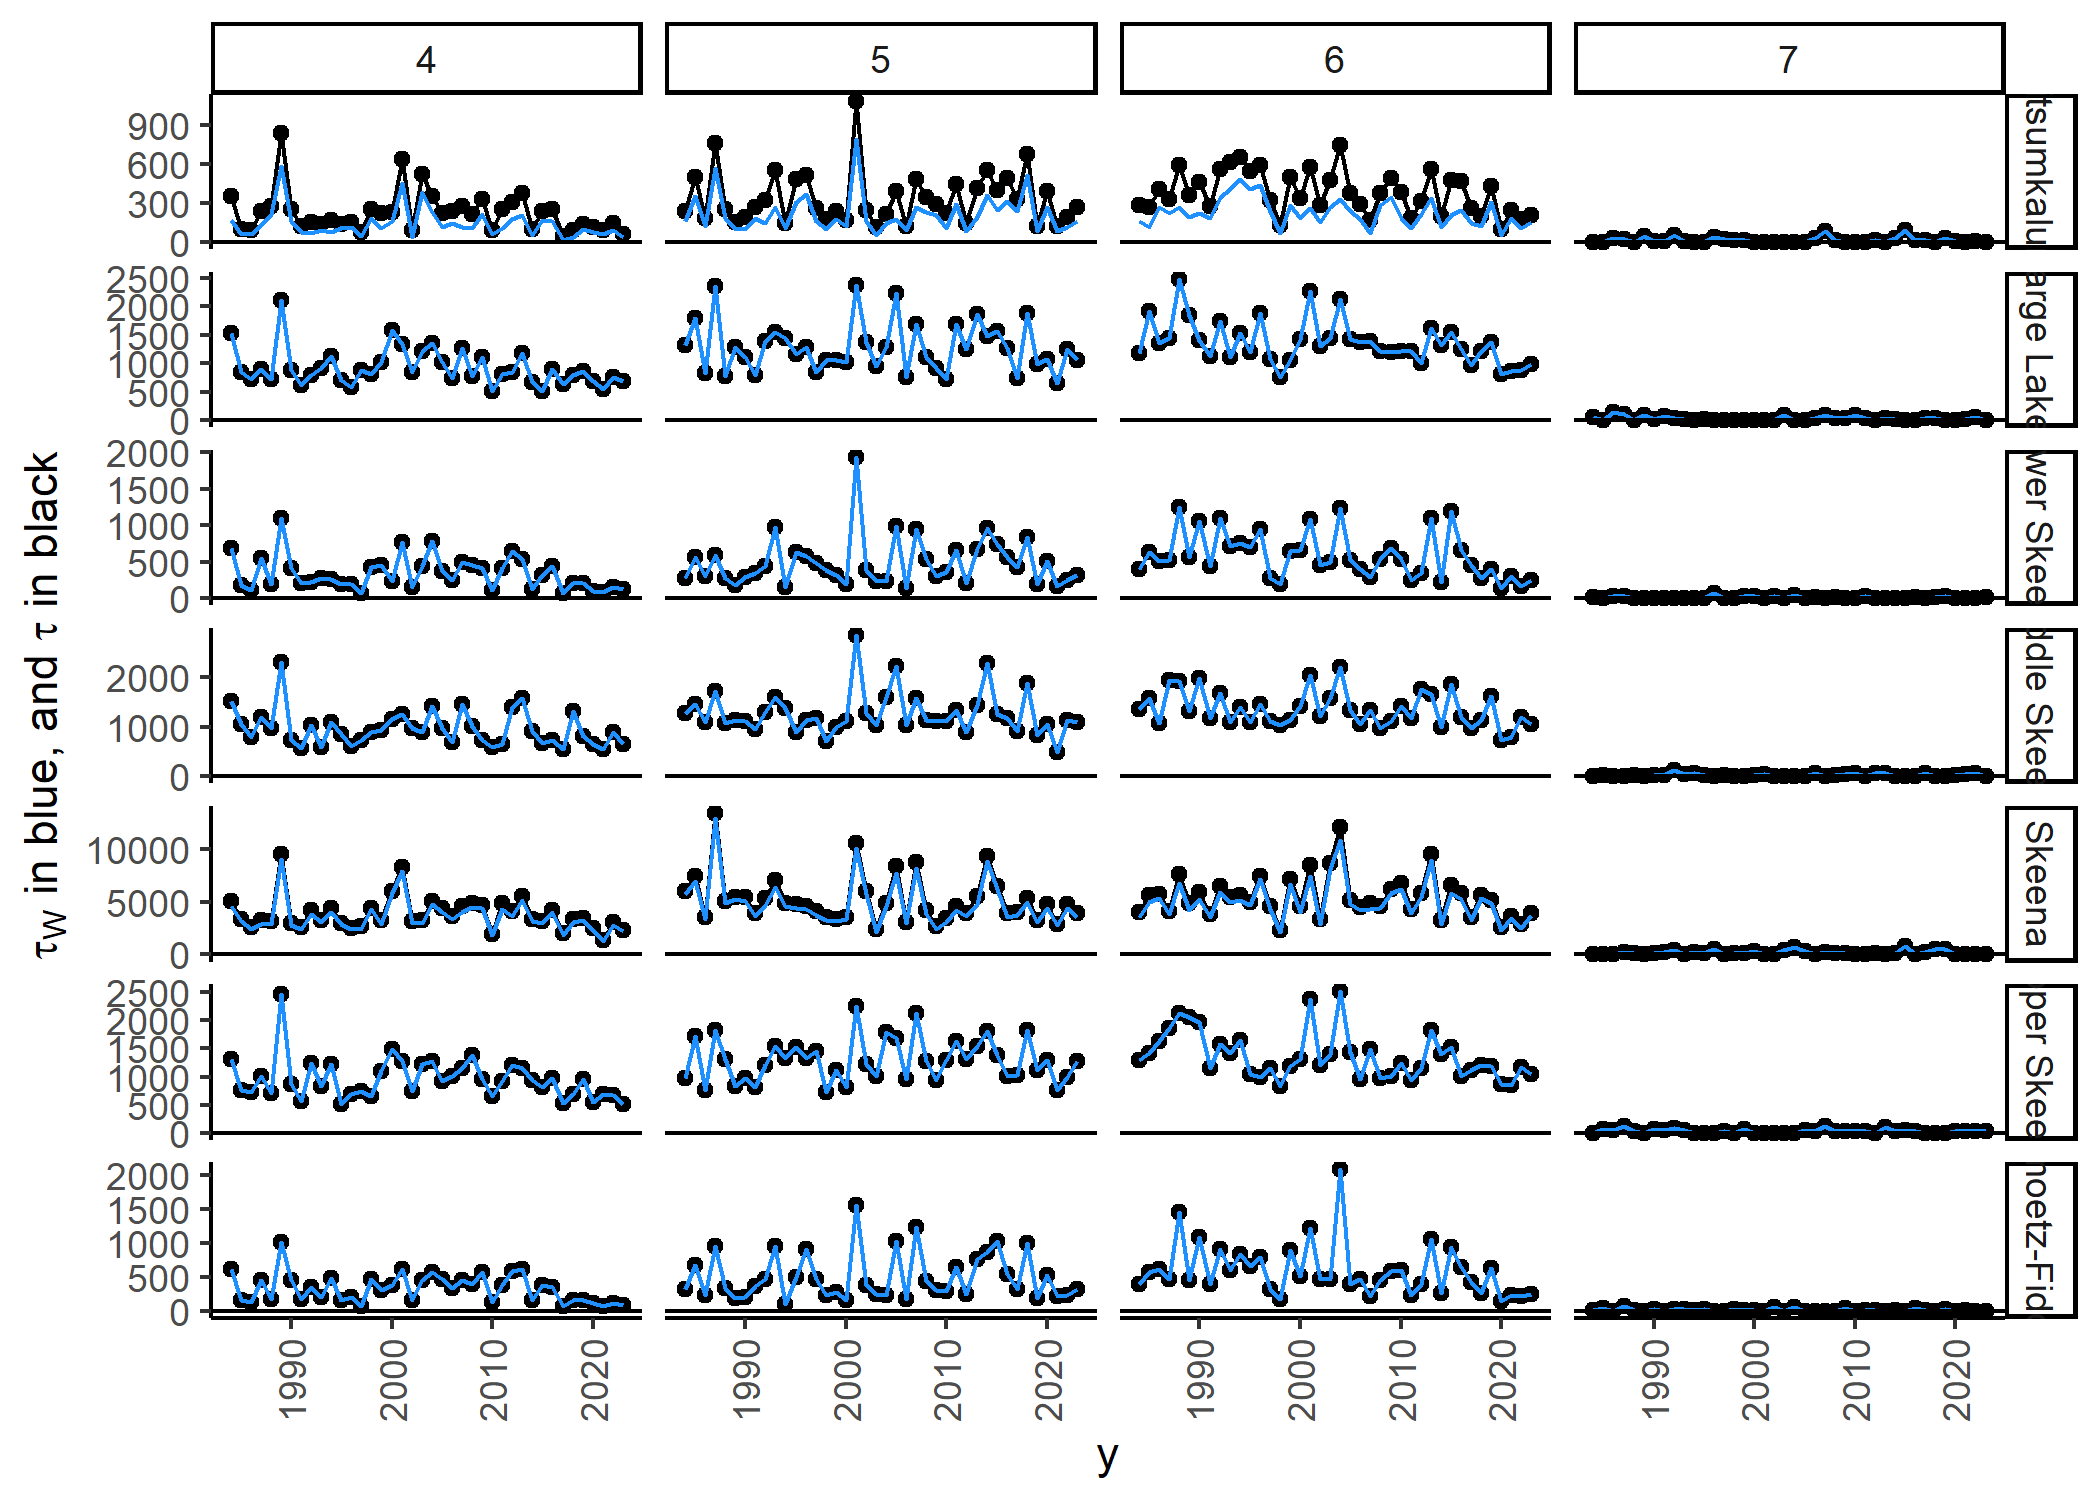
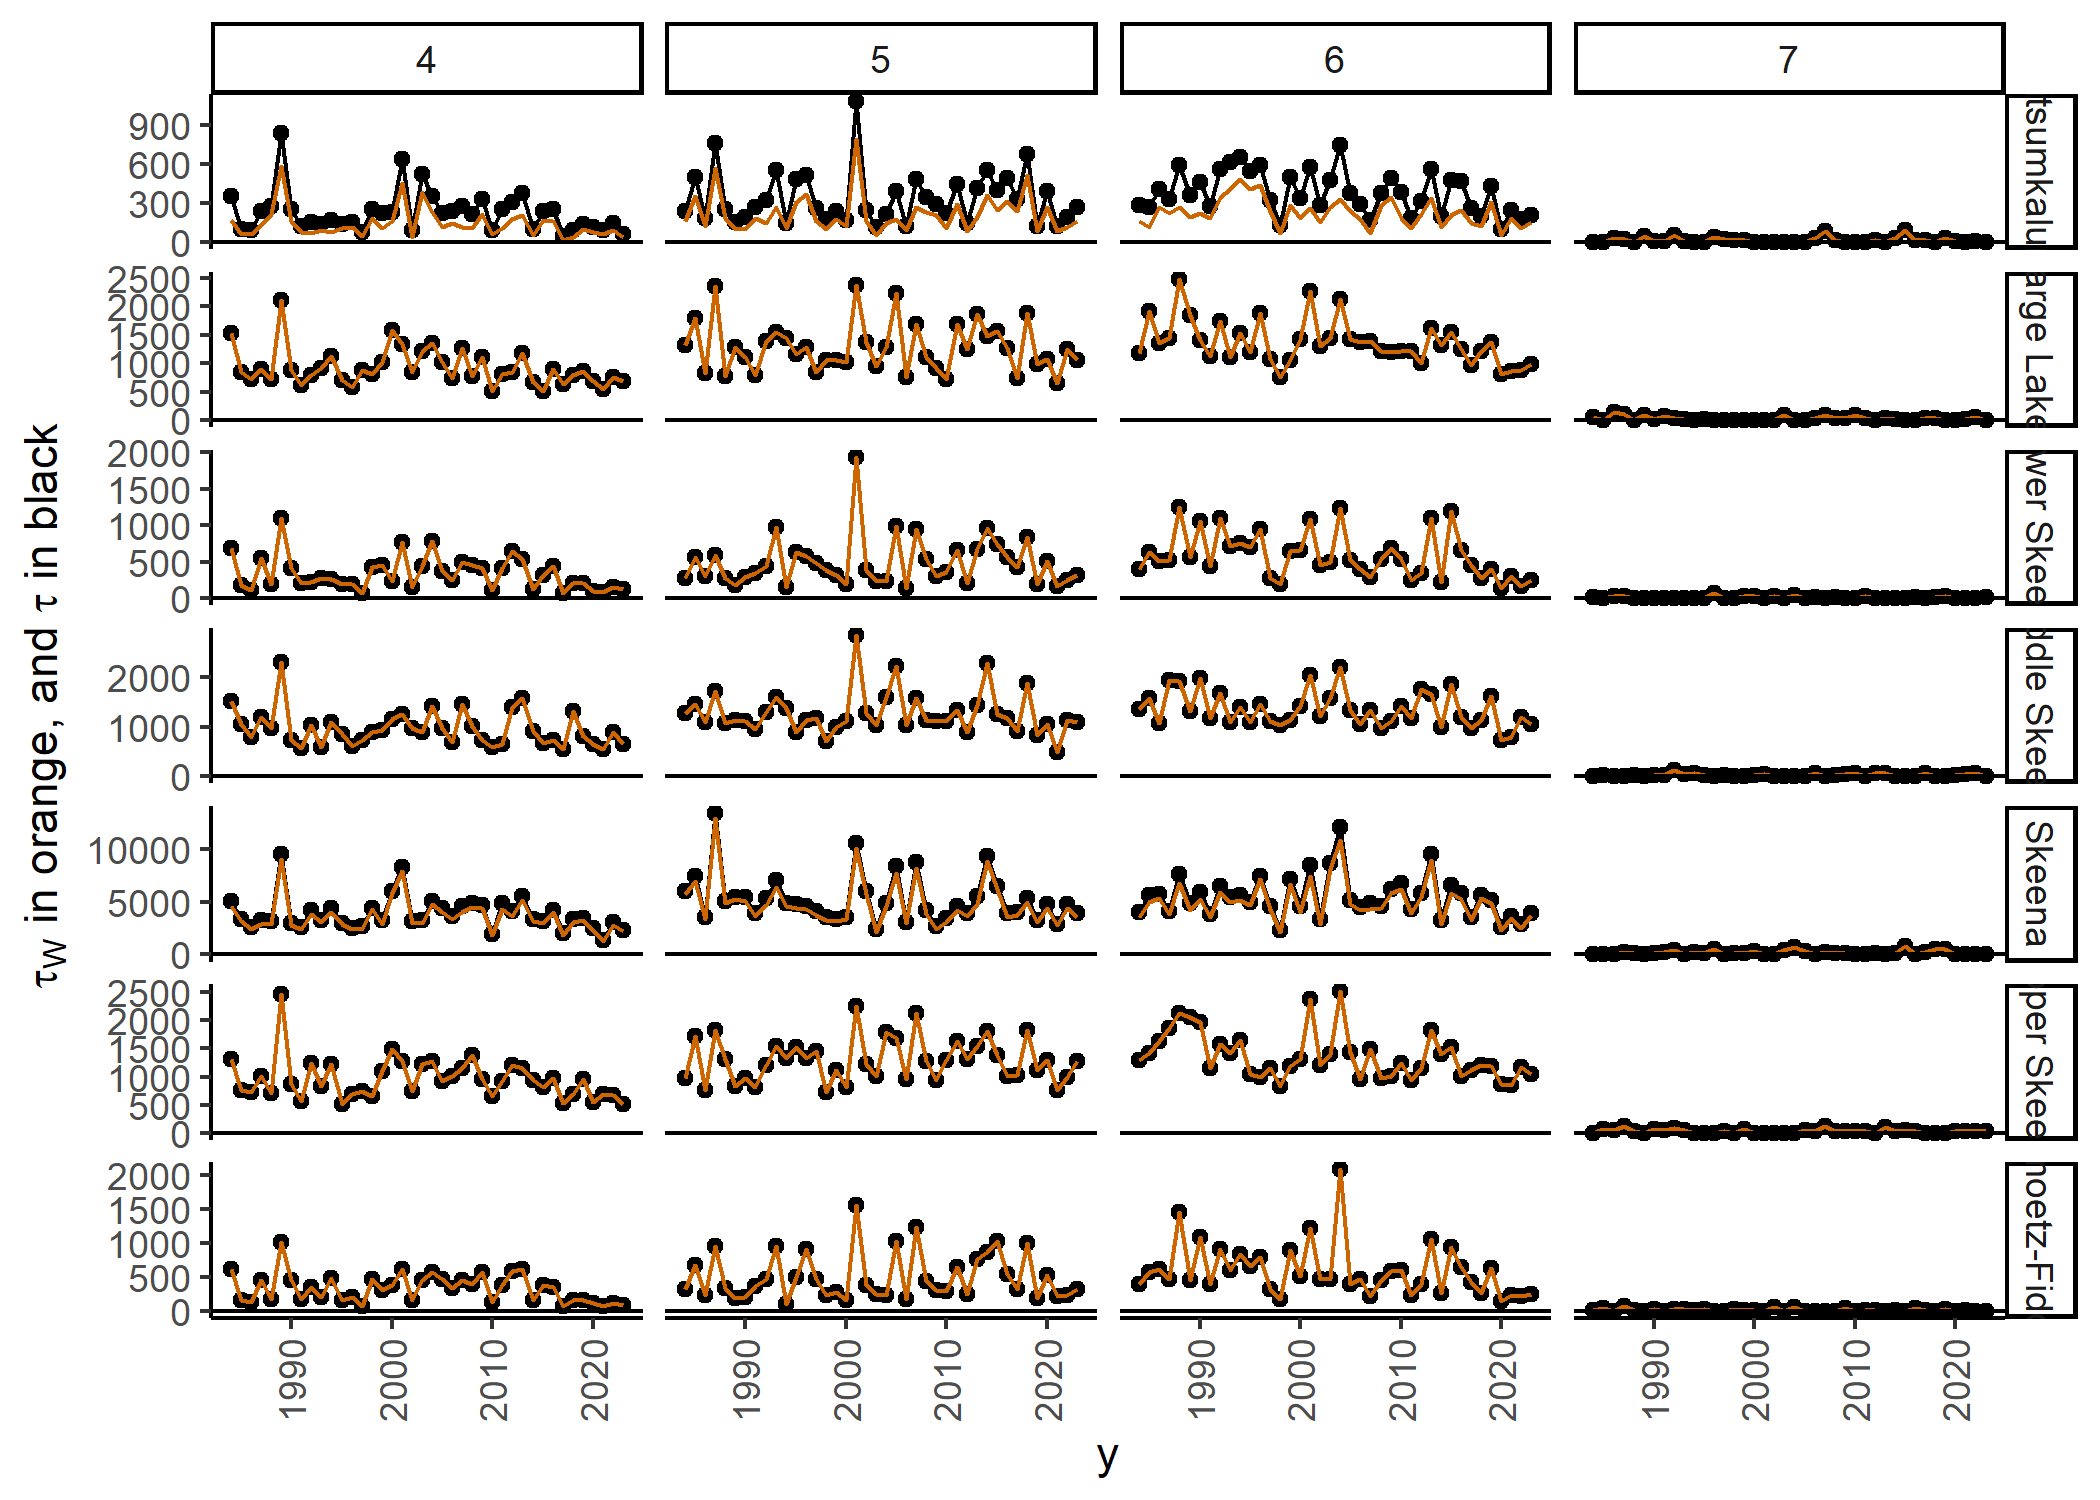
Add TermRun example in readme

diff --git a/README.md b/README.md
@@ -320,9 +320,9 @@ tau_W <- get_tau_W(tau= tau$tau, p = p$p)
 ggplot( tau$df, aes(y =tau, x = y, group = i)) +
   geom_line() +
   geom_point() +
-  geom_line( data = tau_W$df, aes(y =tau_W, x = y), colour="dodgerblue") +
+  geom_line( data = tau_W$df, aes(y =tau_W, x = y), colour="darkorange3") +
   geom_hline(aes(yintercept=0)) + 
-  ylab(TeX("$\\tau_W$ in blue, and $\\tau$ in black")) +
+  ylab(TeX("$\\tau_W$ in orange, and $\\tau$ in black")) +
   facet_grid( i ~ a, scales="free_y") + 
   theme_classic() +
   theme(axis.text.x = element_text(angle=90, vjust=0.5))
@@ -331,5 +331,22 @@ ggplot( tau$df, aes(y =tau, x = y, group = i)) +
 <img src="man/figures/README-example_tau_W-1.png" width="100%" />
 
 Get wild terminal run
+
+``` r
+TermRun <- get_TermRun(tau_W = tau_W$tau_W, W_star = W_star$W_star, B_star = B_star)
+
+ggplot( TermRun$df, aes(y =TermRun, x = y, group = i)) +
+  geom_line() +
+  geom_point() +
+  geom_line( data = tau_W$df, aes(y =tau_W, x = y), colour="darkorange3") +
+  geom_line( data = W_star$df, aes(y =W_star, x = y), colour="firebrick") +
+  geom_hline(aes(yintercept=0)) + 
+  ylab(TeX("$TermRun$ in black, $\\tau_W$ in orange, and $W_star$ in red")) +
+  facet_grid( i ~ a, scales="free_y") + 
+  theme_classic() +
+  theme(axis.text.x = element_text(angle=90, vjust=0.5))
+```
+
+<img src="man/figures/README-example_TermRun-1.png" width="100%" />
 
 Get mature run
